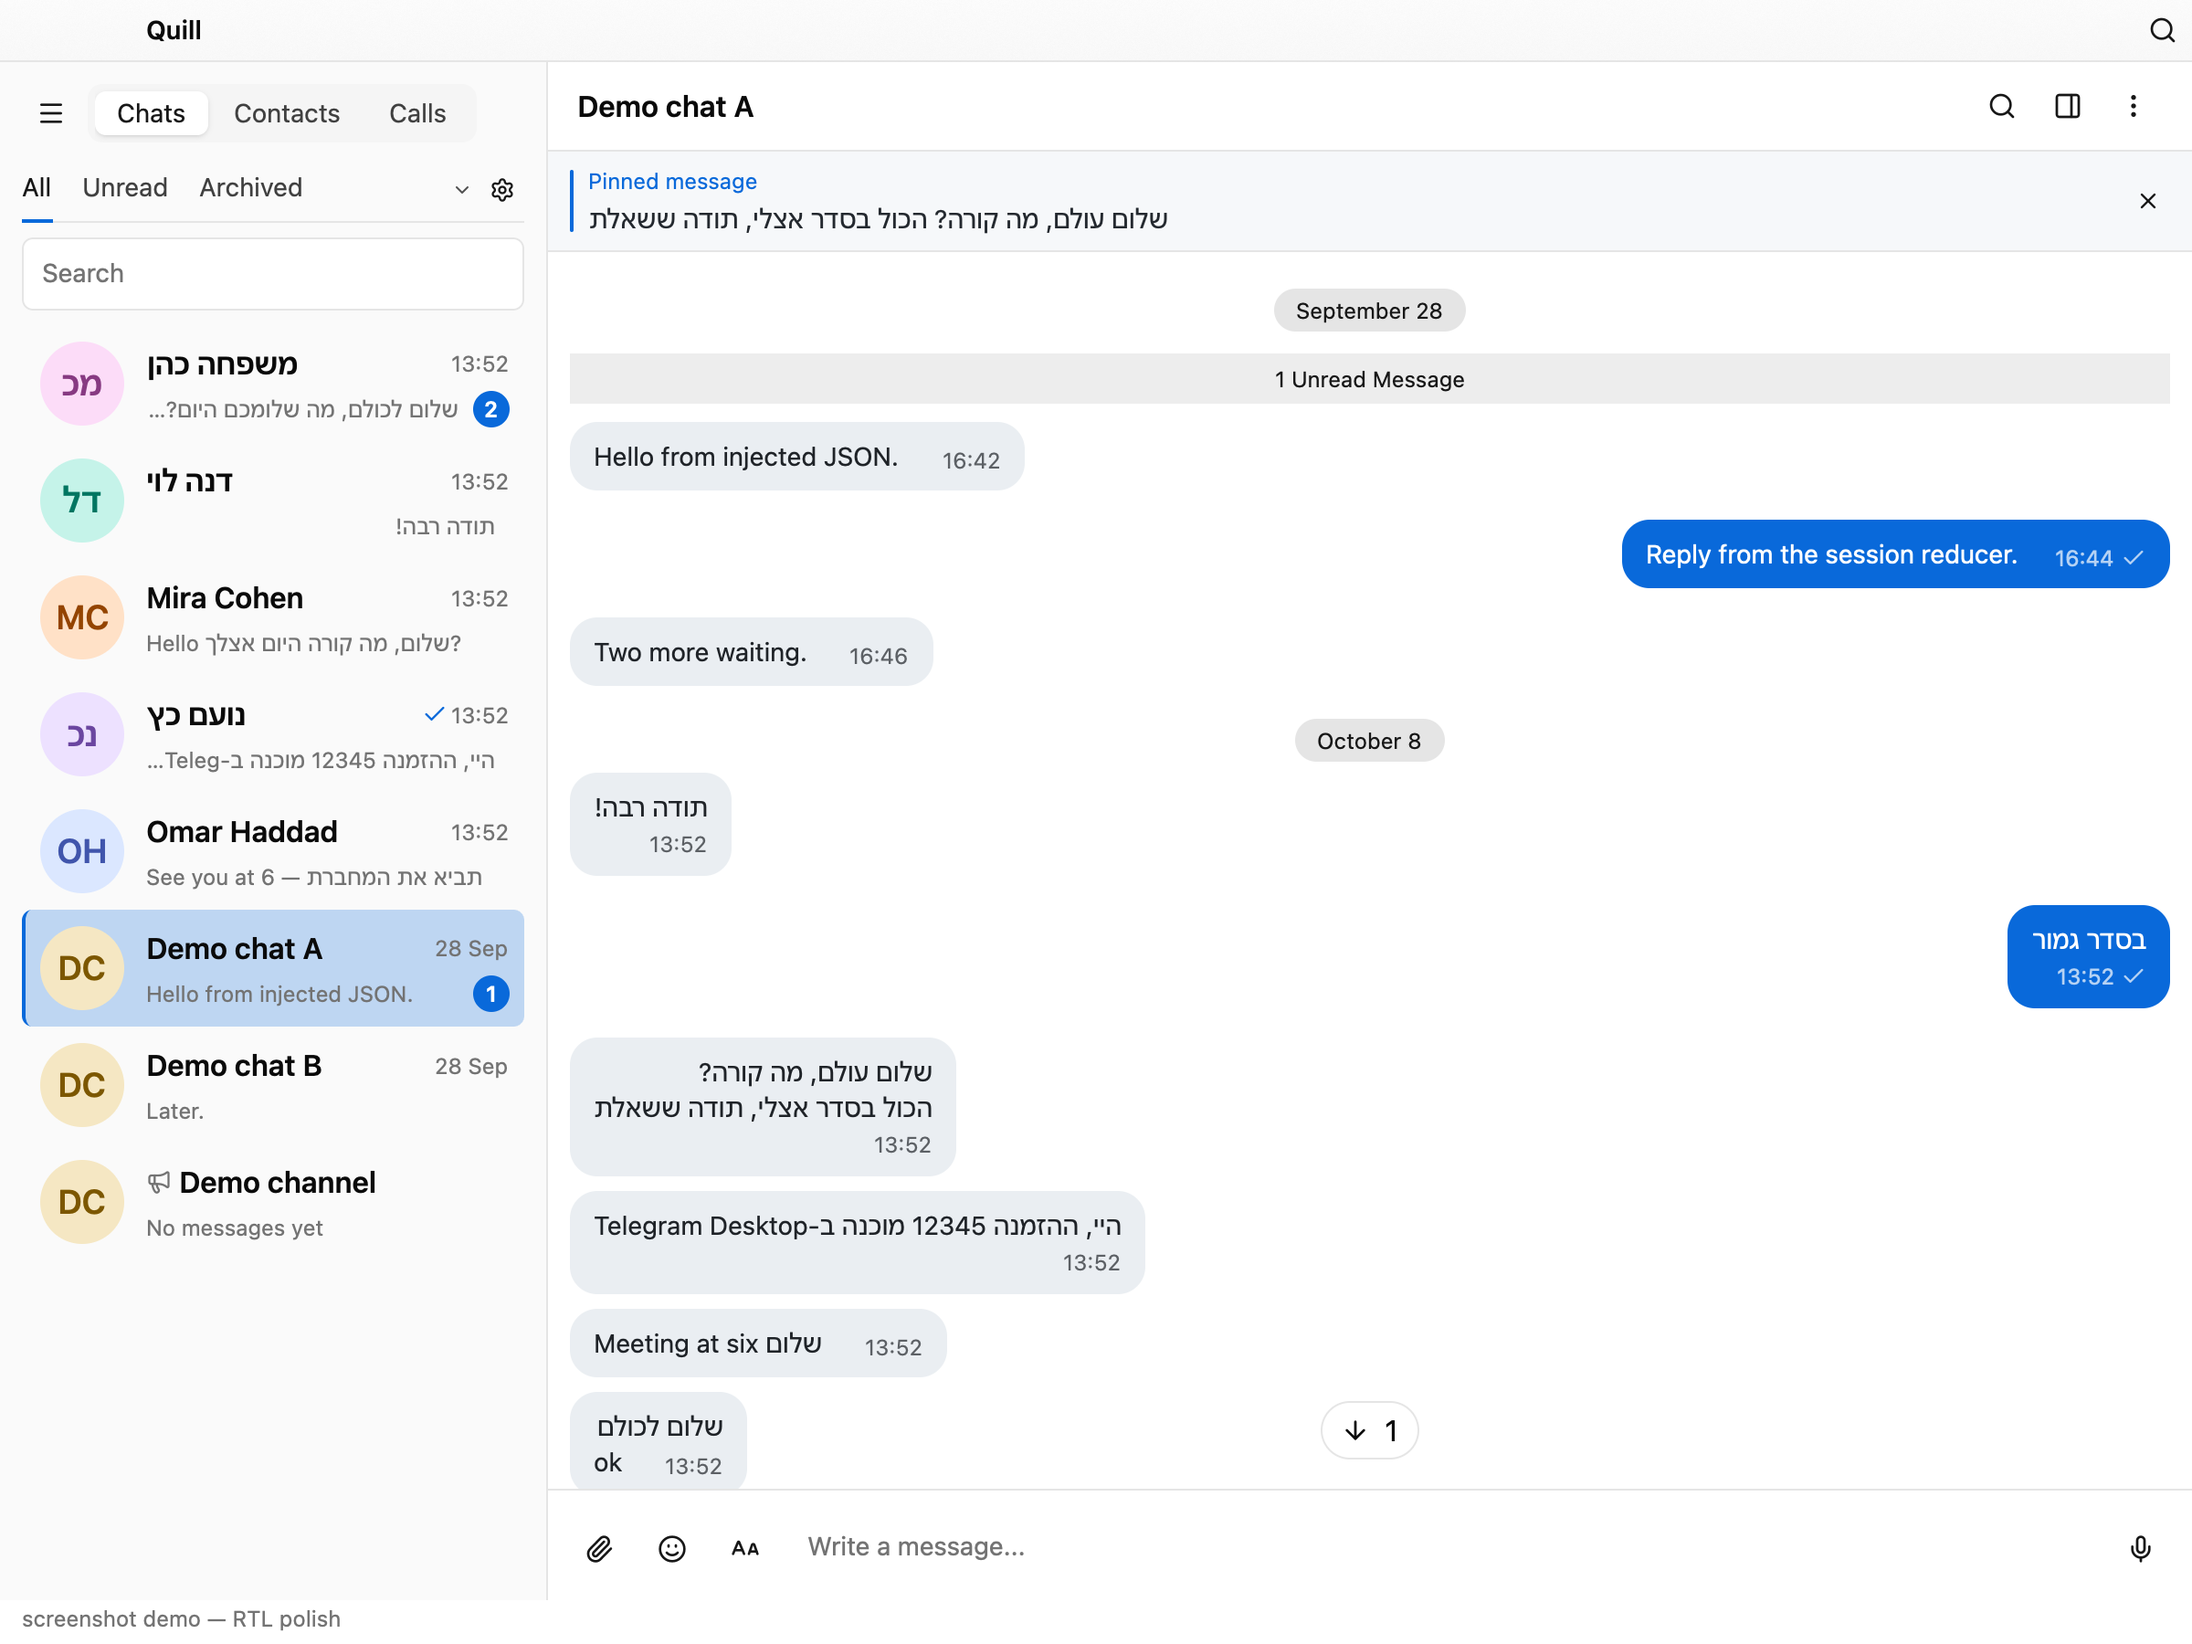
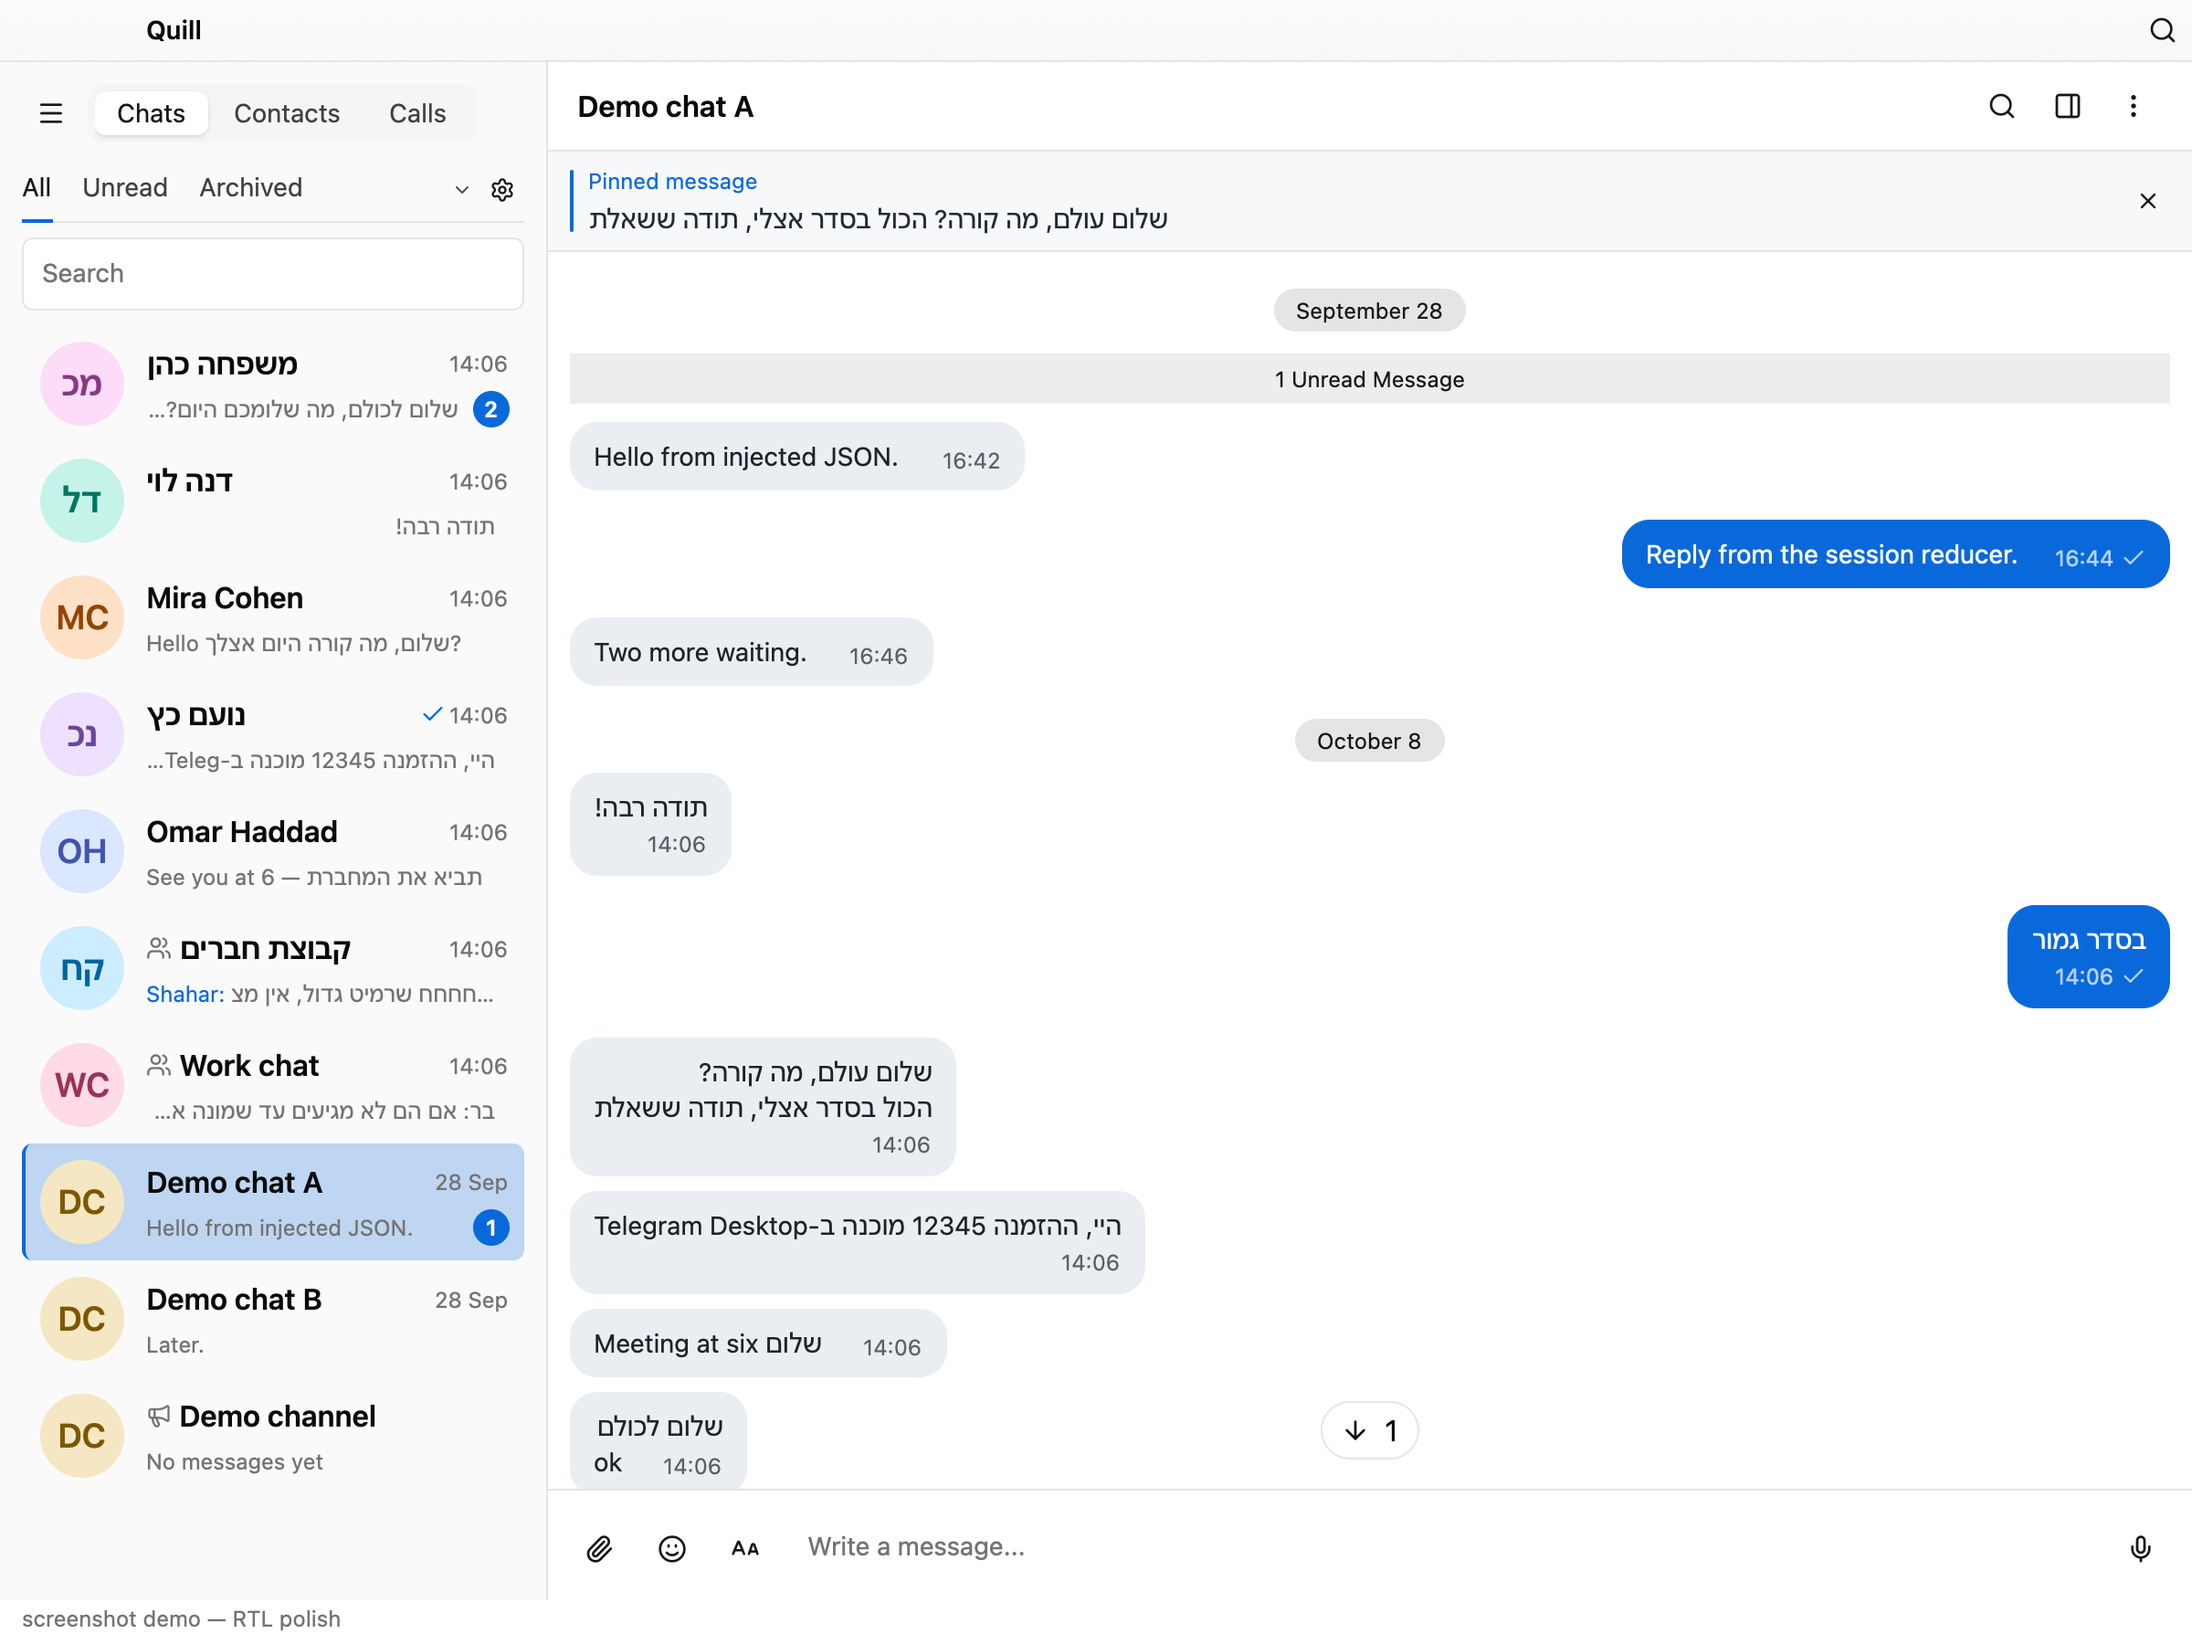
Chat list: sender prefix and RTL preview are one bidi line (direction from the first strong character)

Changed region(s): [[0.0, 0.5289, 0.25, 0.9022], [0.9375, 0.5911, 0.9688, 0.6222], [0.4062, 0.6844, 0.4375, 0.7156]]

diff --git a/src/ui/chatlist_style.rs b/src/ui/chatlist_style.rs
@@ -27,6 +27,7 @@ pub(crate) fn chat_list_preview_line(
         entities,
         emoji,
         &std::collections::HashMap::new(),
+        None,
         cx,
     )
 }
@@ -39,6 +40,11 @@ pub(crate) fn chat_list_preview_line_layered(
     entities: &[TextEntity],
     emoji: &std::collections::HashMap<i64, ImageSource>,
     layered: &std::collections::HashMap<i64, super::anim_layer::LayeredClip>,
+    // The sender ("Name: ") in the accent color. Right-to-left previews lay it out as the
+    // first run of the one line (Telegram Desktop builds "from: text" as one
+    // `Ui::Text::String`, so a Latin name makes the paragraph left-to-right); the caller
+    // draws the prefix itself for every other preview.
+    prefix: Option<String>,
     cx: &mut Context<QuillApp>,
 ) -> AnyElement {
     // One line, as in Telegram Desktop: line breaks read as spaces (same
@@ -51,11 +57,25 @@ pub(crate) fn chat_list_preview_line_layered(
             Some(glyph) => format!("{glyph} {preview}"),
             None => preview,
         };
+        let mut highlights = Vec::new();
+        let text = match &prefix {
+            Some(prefix) => {
+                highlights.push((
+                    0..prefix.len(),
+                    HighlightStyle {
+                        color: Some(accent().into()),
+                        ..Default::default()
+                    },
+                ));
+                format!("{prefix}{text}")
+            }
+            None => text,
+        };
         return div()
             .text_xs()
             .truncate()
             .text_color(muted)
-            .child(super::bidi_line::one_line_plain(text))
+            .child(super::bidi_line::one_line(text, highlights, Vec::new()))
             .into_any_element();
     }
     // Right-to-left text without pictures to place: one bidi-correct line (typing-order
@@ -70,6 +90,16 @@ pub(crate) fn chat_list_preview_line_layered(
             let mut text = String::new();
             let mut highlights: Vec<(std::ops::Range<usize>, HighlightStyle)> = Vec::new();
             let mut mono: Vec<(std::ops::Range<usize>, SharedString)> = Vec::new();
+            if let Some(prefix) = &prefix {
+                text.push_str(prefix);
+                highlights.push((
+                    0..prefix.len(),
+                    HighlightStyle {
+                        color: Some(accent().into()),
+                        ..Default::default()
+                    },
+                ));
+            }
             if let Some(glyph) = icon {
                 text.push_str(glyph);
                 text.push(' ');
@@ -118,6 +148,9 @@ pub(crate) fn chat_list_preview_line_layered(
         }
     }
     let mut parts: Vec<(bool, Div)> = Vec::new();
+    if let Some(prefix) = prefix {
+        parts.push((false, div().text_color(accent()).child(prefix)));
+    }
     if let Some(glyph) = icon {
         parts.push((false, div().child(format!("{glyph} "))));
     }

diff --git a/src/ui/chat_row.rs b/src/ui/chat_row.rs
@@ -540,6 +540,14 @@ pub(super) fn session_chat_row(
     // (When the shown text equals `last_preview` the entities describe
     // it even if the text arrived via the draft path.)
     let from_last = draft.is_none() && preview == chat.last_preview;
+    // A sender prefix and a right-to-left preview are one line of text, whose direction
+    // comes from the first strong character (a Latin name: left-to-right).
+    let combine_prefix = preview_sender.is_some()
+        && from_last
+        && topic_line.is_none()
+        && activity.is_none()
+        && chat.last_preview_thumb.is_none()
+        && quill::text::has_rtl_text(&preview);
     let icon: Option<&str> = if row_style.media_icons && from_last {
         chat.last_preview_style.icon
     } else {
@@ -801,7 +809,9 @@ pub(super) fn session_chat_row(
                                         )
                                         .when_some(
                                             preview_sender
-                                                .filter(|_| from_last && topic_line.is_none()),
+                                                .clone()
+                                                .filter(|_| from_last && topic_line.is_none())
+                                                .filter(|_| !combine_prefix),
                                             |this, sender| {
                                                 this.child(
                                                     div()
@@ -870,6 +880,13 @@ pub(super) fn session_chat_row(
                                                         entities,
                                                         &preview_emoji.still,
                                                         &preview_emoji.layered,
+                                                        combine_prefix
+                                                            .then(|| {
+                                                                preview_sender
+                                                                    .as_ref()
+                                                                    .map(|sender| format!("{sender}: "))
+                                                            })
+                                                            .flatten(),
                                                         cx,
                                                     ),
                                                 )

diff --git a/src/ui/rtl_demo.rs b/src/ui/rtl_demo.rs
@@ -91,6 +91,40 @@ pub(super) fn apply_ready_rtl_polish(
             id * 1_048_576
         ));
     }
+    // Group rows: the preview carries the sender ("Shahar: ...") before the Hebrew text.
+    for (chat, user, name, text) in [
+        (
+            36_i64,
+            41_i64,
+            "Shahar",
+            "חחחח שרמיט גדול, אין מצב שזה קרה באמת",
+        ),
+        (
+            37,
+            42,
+            "בר",
+            "אם הם לא מגיעים עד שמונה אנחנו מתחילים בלעדיהם",
+        ),
+    ] {
+        let text = serde_json::to_string(text).unwrap_or_default();
+        let name_json = serde_json::to_string(name).unwrap_or_default();
+        let title = if chat == 36 {
+            "קבוצת חברים"
+        } else {
+            "Work chat"
+        };
+        jsons.push(format!(
+            r#"{{"@type":"updateUser","user":{{"@type":"user","id":{user},"first_name":{name_json},"last_name":"","usernames":null,"phone_number":"","status":{{"@type":"userStatusRecently"}},"profile_photo":null,"is_contact":true,"type":{{"@type":"userTypeRegular"}}}}}}"#
+        ));
+        jsons.push(format!(
+            r#"{{"@type":"updateNewChat","chat":{{"id":{chat},"title":"{title}","type":{{"@type":"chatTypeBasicGroup","basic_group_id":{chat}}},"unread_count":0}}}}"#
+        ));
+        jsons.push(format!(
+            r#"{{"@type":"updateChatLastMessage","chat_id":{chat},"last_message":{{"id":{},"chat_id":{chat},"date":{now},"is_outgoing":false,"sender_id":{{"@type":"messageSenderUser","user_id":{user}}},"content":{{"@type":"messageText","text":{{"@type":"formattedText","text":{text},"entities":[]}}}}}},"positions":[{{"@type":"chatPosition","list":{{"@type":"chatListMain"}},"order":"{}","is_pinned":false}}]}}"#,
+            chat * 1_048_576,
+            2000 - chat
+        ));
+    }
     for (id, outgoing, text) in MESSAGES {
         let text = serde_json::to_string(text).unwrap_or_default();
         jsons.push(format!(

diff --git a/docs/decisions/codex-rtl-polish.md b/docs/decisions/codex-rtl-polish.md
@@ -45,6 +45,16 @@ chat-list titles (elision only), search results (chat title, preview, in-chat
 hit), the archive row, reply strips in bubbles, the pinned bar and its list.
 The composer reply bar already goes through the chat-list preview line.
 
+Sender prefix: tdesktop builds "From: text" as one `Ui::Text::String`, so the
+paragraph direction is that of the first strong character: `Shahar: חחחח…` is a
+left-to-right line (accent-coloured prefix as the first run, Hebrew following),
+`בר: …` is right-to-left. Quill lays prefix, media icon glyph and preview out as
+one bidi line when the preview has RTL text (`chat_list_preview_line_layered`
+`prefix`). With a mini-thumbnail the prefix and thumb stay separate boxes and
+the text is right-aligned in the rest, as in tdesktop (sender, thumbs, text).
+Draft prefixes ("Draft:") are still separate. Search hit rows carry no sender
+prefix in Quill.
+
 Deviations: a chat-list *title* stays at the start edge next to its badges
 (tdesktop right-aligns the name in its box and then places badges from the
 left, which overlaps); previews that contain a rendered custom-emoji picture
